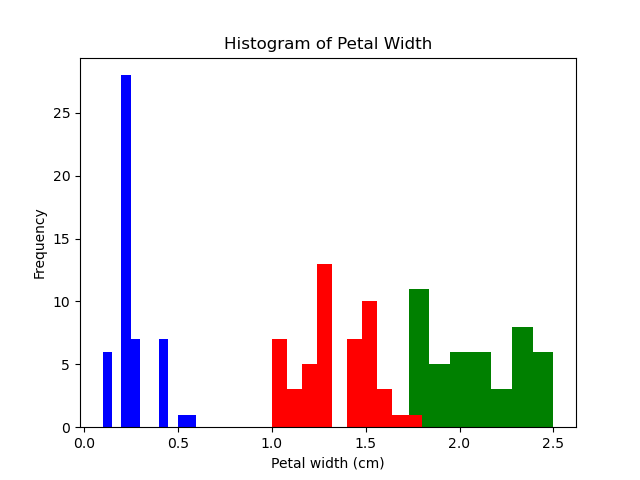
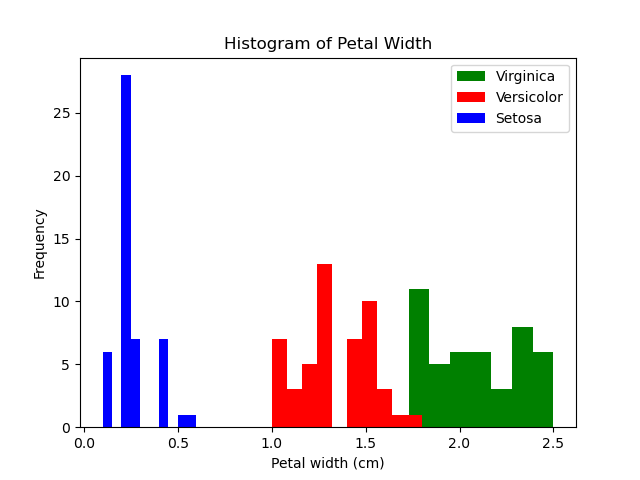
update README

Changed region(s): [[0.6875, 0.125, 0.875, 0.2812]]

diff --git a/PROJECT PandS 2021/IrisFlowersPlot.py b/PROJECT PandS 2021/IrisFlowersPlot.py
@@ -88,8 +88,8 @@ versicolor.petal_width.plot(kind='hist', title='Histogram of Petal Width', label
 setosa.petal_width.plot(kind='hist', title='Histogram of Petal Width', label= 'Setosa', color='blue') 
 plt.xlabel('Petal width (cm)')
 plt.ylabel('Frequency')
+plt.legend()
 plt.savefig('hist_petal_width_overlap.png')
-plt.legend() 
 plt.show()
 # SEPAL LENGTH
 virginica.sepal_length.plot(kind='hist', title='Histogram of Sepal Length',label='Virginica', color='green')

diff --git a/PROJECT PandS 2021/README.md b/PROJECT PandS 2021/README.md
@@ -60,15 +60,20 @@ It seems like the disparities between the flower species are more important amon
 
 ### Petal Length Histograms 
 
-Here, two histograms are observed: hist_petal_length.png and histogram hist_petal_length.png.
+Here, two histograms are observed: hist_petal_length.png and histogram hist_petal_length_overlap.png.
 
 First, let's observe the hist_petal_length.png histogram. This histogram display the repartition frequency of the variable 'petal length'. Looking at the histogram, we can see 2 blocks. One smaller one recording a quite high frequency of short petal length (from 1 to 2cm long). The 2nd block displays a repartiion more common of the data collected (3 to 7cm long, with the highest frequency between 4 and 6cm). 
 
 Now, observing the 2nd histogram hist_petal_length.png, we get an insight of the repartion of the petal length measurement by flower type. The one smaller observed in the previous histogram is exclusively consisting of dqtq collected from Iris Setosa. The second block, more blended is composed of data from Iris Versicolor and Iris Virginica flowers. 
 Taking only the petal length variable into consideration, there seems to be a sharp differentiation between the Iris setosa and the two other flower types. 
 
+### Petal Width Histograms
 
+Here, two histograms are observed: hist_petal_width.png and histogram hist_petal_width_overlap.png.
 
+First, let's observe the hist_petal_width.png histogram. Similarly to the petal lenght histogram, we can disctinctly observe a first block, with high frequency between 0 and 0.5cm. The second block appears more coherent, with most of the petal width measured between 1.25 and 2.5cm. The second block have more even distribution of the frequency of the petal width, while the first block appears to  
+
+The second histogram is similar to the previous one, but it presents each flower species data in a different color. With this insight, we can notice that once again that the setosa petal width measurment follow a trend very different from versicolor and virginica flowers. 
 
 
 
